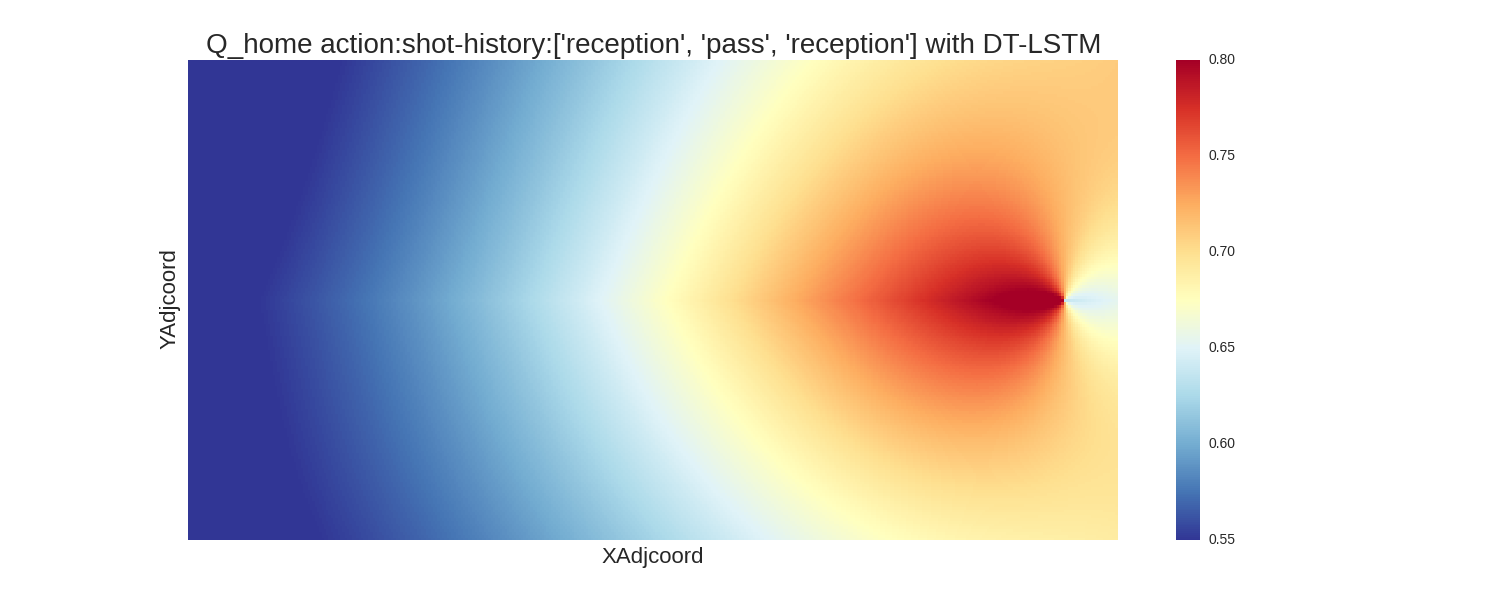
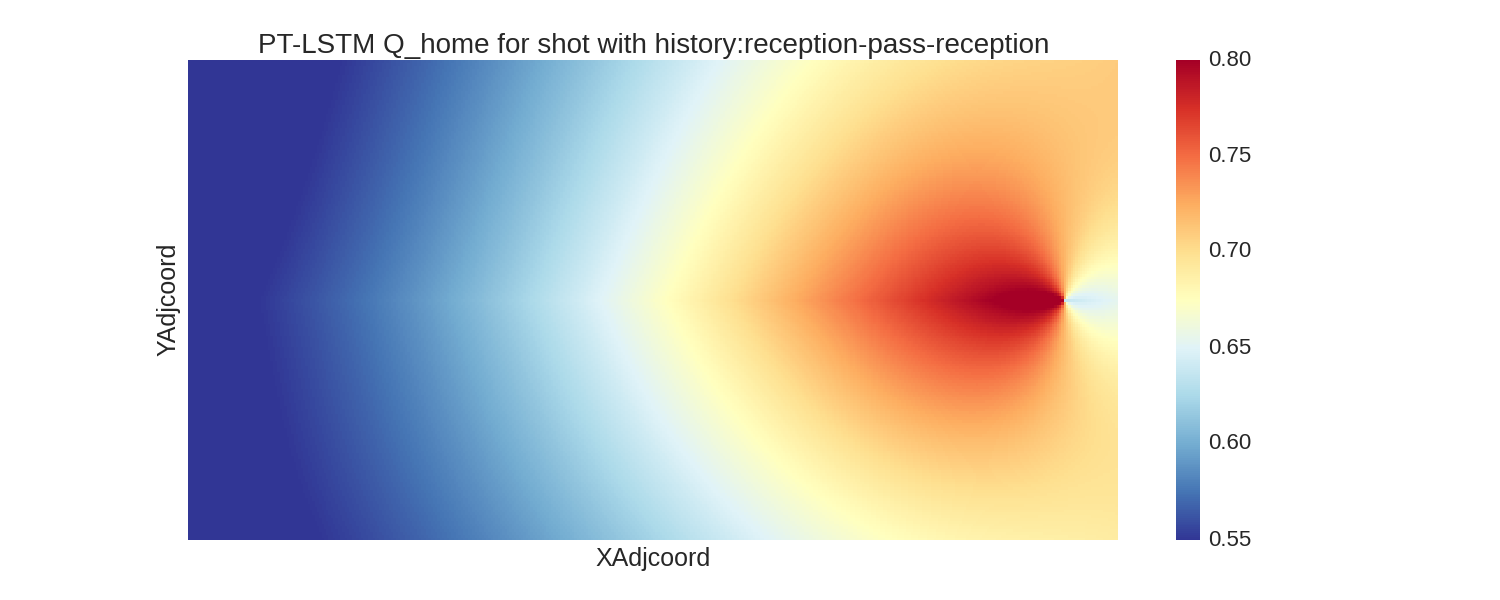
2017-8-19

diff --git a/td_three_prediction_lstm_v_correct_dir/stimulate_LSTM_spatial_cut_together_v_correct.py b/td_three_prediction_lstm_v_correct_dir/stimulate_LSTM_spatial_cut_together_v_correct.py
@@ -4,17 +4,24 @@ import scipy.io as sio
 import tensorflow as tf
 import seaborn as sns
 import cv2
+import pandas as pd
+import math
 
 import td_three_prediction_lstm_v_correct_cut_together
 
 FEATURE_TYPE = 5
-ACTION_TYPE = "goal"
+ACTION_TYPE = "shot"
 STIMULATE_TYPE = "position"
 MODEL_TYPE = "v3"
 ITERATE_NUM = 30
 BATCH_SIZE = 32
 ISHOME = True
-HIS_ACTION_TYPE = ['shot']
+ISDIFF = True
+if ISDIFF:
+    diff_str = "_diff"
+else:
+    diff_str = ""
+HIS_ACTION_TYPE = ['reception', 'pass', 'reception']
 DRAW_TARGET = "Q_home"
 if_correct_velocity = "_v_correct_"
 pre_initialize = False
@@ -40,11 +47,15 @@ SIMPLE_SAVED_NETWORK_PATH = "/cs/oschulte/Galen/models/hybrid_sl_saved_NN/Scale-
     str(FEATURE_TYPE), str(BATCH_SIZE), str(ITERATE_NUM), str(learning_rate), str(MODEL_TYPE), if_correct_velocity)
 # "Scale-three-cut_together_saved_networks_feature5_batch32_iterate30_lr1e-05_v3_v_correct_"
 if ISHOME:
-    SIMULATION_DATA_PATH = "/cs/oschulte/Galen/Hockey-data-entire/Simulation-data-feature{0}_v_correct_/entire_spatial_simulation/LSTM_Home_entire_spatial_simulation-{1}-{2}-feature{0}.mat".format(
-        str(FEATURE_TYPE), str(ACTION_TYPE), str(HIS_ACTION_TYPE))
+    if ISDIFF:
+        SIMULATION_DATA_PATH = "/cs/oschulte/Galen/Hockey-data-entire/Simulation-data-feature{0}_v_correct_/entire_spatial_simulation/LSTM_diff_Home_entire_spatial_simulation-{1}-{2}-feature{0}.mat".format(
+            str(FEATURE_TYPE), str(ACTION_TYPE), str(HIS_ACTION_TYPE))
+    else:
+        SIMULATION_DATA_PATH = "/cs/oschulte/Galen/Hockey-data-entire/Simulation-data-feature{0}_v_correct_/entire_spatial_simulation/LSTM_Home_entire_spatial_simulation-{1}-{2}-feature{0}.mat".format(
+            str(FEATURE_TYPE), str(ACTION_TYPE), str(HIS_ACTION_TYPE))
 
 
-def nn_simulation(SIMULATION_DATA_PATH, SIMPLE_SAVED_NETWORK_PATH, nn_image_save_dir, nn_half_image_save_dir):
+def nn_simulation(SIMULATION_DATA_PATH, SIMPLE_SAVED_NETWORK_PATH, nn_save_image_dir, nn_half_save_image_dir):
     simulate_data = sio.loadmat(SIMULATION_DATA_PATH)
     simulate_data = (simulate_data['simulate_data'])
 
@@ -62,13 +73,30 @@ def nn_simulation(SIMULATION_DATA_PATH, SIMPLE_SAVED_NETWORK_PATH, nn_image_save
 
     value_spatial_home = []
     value_spatial_away = []
+    value_spatial_home_dict_list = []
+    value_spatial_away_dict_list = []
 
+    y_count = 0
     for x_coord_states in simulate_data:
         trace_length = np.ones(len(x_coord_states)) * (len(HIS_ACTION_TYPE) + 1)
         readout_x_coord_values = model_nn.read_out.eval(
             feed_dict={model_nn.rnn_input: x_coord_states, model_nn.trace_lengths: trace_length})
+
+        y_coord = -42.5 + y_count
+        y_count += float(85) / float(simulate_data.shape[0] - 1)
+
+        for x_coord in np.linspace(-100.0, 100.0, x_coord_states.shape[0]):
+            readout_x_label = 0 + float(x_coord_states.shape[0] - 1) / 200 * (x_coord + 100)
+            value_spatial_home_dict_list.append(
+                {'x_coord': x_coord, 'y_coord': y_coord, 'q_home': readout_x_coord_values[int(readout_x_label), 0]})
+            value_spatial_away_dict_list.append(
+                {'x_coord': x_coord, 'y_coord': y_coord, 'q_home': readout_x_coord_values[int(readout_x_label), 1]})
+
         value_spatial_home.append((readout_x_coord_values[:, 0]).tolist())
         value_spatial_away.append((readout_x_coord_values[:, 1]).tolist())
+
+    value_spatial_home_df = pd.DataFrame(value_spatial_home_dict_list)
+    value_spatial_away_df = pd.DataFrame(value_spatial_away_dict_list)
 
     if DRAW_TARGET == "Q_home":
         value_spatial = value_spatial_home
@@ -91,36 +119,40 @@ def nn_simulation(SIMULATION_DATA_PATH, SIMPLE_SAVED_NETWORK_PATH, nn_image_save
 
     print "heat map"
     plt.figure(figsize=(15, 6))
-    sns.set()
-    ax = sns.heatmap(value_spatial, xticklabels=False, yticklabels=False, cmap="RdYlBu_r", vmin=vmin_set, vmax=vmax_set)
+    sns.set(font_scale=1.6)
+    ax = sns.heatmap(value_spatial, xticklabels=False, yticklabels=False,
+                     cmap="RdYlBu_r",
+                     vmin=vmin_set,
+                     vmax=vmax_set)
     plt.xlabel('XAdjcoord', fontsize=18)
     plt.ylabel('YAdjcoord', fontsize=18)
-    try:
-        plt.title("{2} action:{0}-history:{1} with DT-LSTM".format(ACTION_TYPE, str(HIS_ACTION_TYPE), DRAW_TARGET),
-                  fontsize=20)
-    except:
-        plt.title("{2} action:{0}-history:{1} with DT-LSTM".format(ACTION_TYPE, "[]", DRAW_TARGET), fontsize=20)
+    if len(HIS_ACTION_TYPE) == 3:
+        plt.title(
+            "PT-LSTM {4} for {0} with history:{1}-{2}-{3}".format(ACTION_TYPE, HIS_ACTION_TYPE[0], HIS_ACTION_TYPE[1],
+                                                                  HIS_ACTION_TYPE[2], DRAW_TARGET),
+            fontsize=20)
+    else:
+        plt.title("PT-LSTM {1} for {0} without history".format(ACTION_TYPE, DRAW_TARGET), fontsize=20)
 
-    # sns.plt.show()
-    print nn_image_save_dir
-    plt.savefig(nn_image_save_dir)
+    plt.savefig(nn_save_image_dir)
 
     value_spatial_home_half = [v[200:402] for v in value_spatial]
     plt.figure(figsize=(15, 12))
     sns.set()
-    ax = sns.heatmap(value_spatial_home_half, xticklabels=False, yticklabels=False, cmap="RdYlBu_r", vmin=vmin_set,
+    ax = sns.heatmap(value_spatial_home_half, xticklabels=False, yticklabels=False,
+                     cmap="RdYlBu_r", vmin=vmin_set,
                      vmax=vmax_set)
     plt.xlabel('XAdjcoord', fontsize=26)
     plt.ylabel('YAdjcoord', fontsize=26)
-    try:
-        plt.title("{2} action:{0}, history:{1} \n with DT-LSTM on right rink".format(ACTION_TYPE, str(HIS_ACTION_TYPE),
-                                                                                    DRAW_TARGET),
+    if len(HIS_ACTION_TYPE) == 3:
+        plt.title("PT-LSTM {2} for {0}\n with history:{1} on right rink".format(ACTION_TYPE, str(HIS_ACTION_TYPE),
+                                                                                DRAW_TARGET),
                   fontsize=30)
-    except:
-        plt.title("{2} action:{0}, history:{1} \n with DT-LSTM on right rink".format(ACTION_TYPE, "[]", DRAW_TARGET),
+    else:
+        plt.title("PT-LSTM {2} for {0}\n with history:{1} on right rink".format(ACTION_TYPE, "[]", DRAW_TARGET),
                   fontsize=30)
 
-    plt.savefig(nn_half_image_save_dir)
+    plt.savefig(nn_half_save_image_dir)
 
 
 def image_blending(value_Img_dir, save_dir, value_Img_half_dir, half_save_dir):
@@ -155,18 +187,18 @@ def image_blending(value_Img_dir, save_dir, value_Img_half_dir, half_save_dir):
 
 
 if __name__ == '__main__':
-    nn_image_save_dir = "./image/{7} {0}-{1} with Dynamic LSTM feature{2}_batch{3}_iterate{4}_lr{5}_{6}{8}.png".format(
+    nn_image_save_dir = "./image/{7} {0}-{1} with Dynamic LSTM feature{2}_batch{3}_iterate{4}_lr{5}_{6}{8}{9}.png".format(
         ACTION_TYPE, str(HIS_ACTION_TYPE), str(FEATURE_TYPE), str(BATCH_SIZE), str(ITERATE_NUM), str(learning_rate),
-        str(MODEL_TYPE), DRAW_TARGET, if_correct_velocity)
-    nn_half_image_save_dir = "./image/right half {7} {0}-{1} with Dynamic LSTM feature{2}_batch{3}_iterate{4}_lr{5}_{6}{8}.png".format(
+        str(MODEL_TYPE), DRAW_TARGET, if_correct_velocity, diff_str)
+    nn_half_image_save_dir = "./image/right half {7} {0}-{1} with Dynamic LSTM feature{2}_batch{3}_iterate{4}_lr{5}_{6}{8}{9}.png".format(
         ACTION_TYPE, str(HIS_ACTION_TYPE), str(FEATURE_TYPE), str(BATCH_SIZE), str(ITERATE_NUM), str(learning_rate),
-        str(MODEL_TYPE), DRAW_TARGET, if_correct_velocity)
-    blend_image_save_dir = "./image/blend {7} {0}-{1} with Dynamic LSTM feature{2}_batch{3}_iterate{4}_lr{5}_{6}{8}.png".format(
+        str(MODEL_TYPE), DRAW_TARGET, if_correct_velocity, diff_str)
+    blend_image_save_dir = "./image/blend {7} {0}-{1} with Dynamic LSTM feature{2}_batch{3}_iterate{4}_lr{5}_{6}{8}{9}.png".format(
         ACTION_TYPE, str(HIS_ACTION_TYPE), str(FEATURE_TYPE), str(BATCH_SIZE), str(ITERATE_NUM), str(learning_rate),
-        str(MODEL_TYPE), DRAW_TARGET, if_correct_velocity)
-    blend_half_image_save_dir = "./image/blend right half {7} {0}-{1} with Dynamic LSTM feature{2}_batch{3}_iterate{4}_lr{5}_{6}{8}.png".format(
+        str(MODEL_TYPE), DRAW_TARGET, if_correct_velocity, diff_str)
+    blend_half_image_save_dir = "./image/blend right half {7} {0}-{1} with Dynamic LSTM feature{2}_batch{3}_iterate{4}_lr{5}_{6}{8}{9}.png".format(
         ACTION_TYPE, str(HIS_ACTION_TYPE), str(FEATURE_TYPE), str(BATCH_SIZE), str(ITERATE_NUM), str(learning_rate),
-        str(MODEL_TYPE), DRAW_TARGET, if_correct_velocity)
+        str(MODEL_TYPE), DRAW_TARGET, if_correct_velocity, diff_str)
     sess_nn = tf.InteractiveSession()
     model_nn = nn
     nn_simulation(SIMULATION_DATA_PATH, SIMPLE_SAVED_NETWORK_PATH, nn_image_save_dir, nn_half_image_save_dir)
